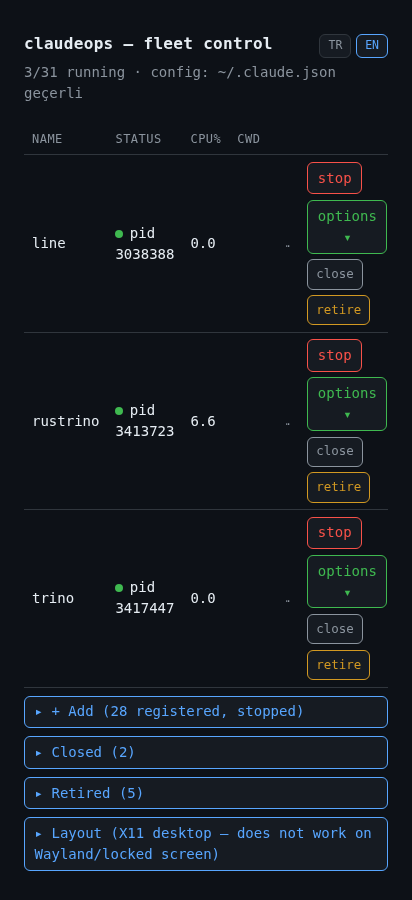
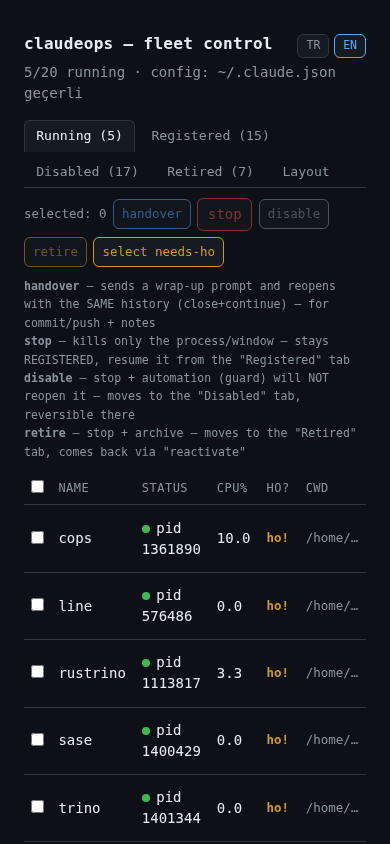
docs(readme): panel bölümü yeni TAB+checkbox UI'a göre yeniden yazıldı (EN+TR) + güncel ekran görüntüleri
Claude-Session: https://claude.ai/code/session_01U2KW6gG7GKg7q6ygQCARbi

diff --git a/py/README_TR.md b/py/README_TR.md
@@ -32,26 +32,39 @@ En kolay kullanım yolu; her şey tarayıcıdan:
 
 ![claudeops web paneli](../docs/web-panel.png)
 
-- **Ana sayfa** — sadece o an **çalışan** session'lar (gürültüsüz; hiçbir şey otomatik açılmaz).
-- **+ Ekle** — kayıtlı-ama-kapalı projeleri listeler; birini seçip **devam ettir** / **sıfırla (--new)** /
-  **ayrı yeni chat aç** (otomatik tarih-isimli, model/permission-mode/effort seçenekli) ile başlatırsınız.
-  Aynı panelin altında **yeni proje kaydet** formu (isim + klasör + model) — elle dosya düzenlemeden
-  roster'a ekler.
-- **Kapalı / Emekli** — geçici durdurulmuş / tamamen bırakılmış projeler; "tekrar işe al"la geri gelir.
-  Aktif bir projeyi **kapat**mak (geçici) ya da **emekli et**mek (kalıcı) mümkün.
-- **Handover** — çalışan bir session'a wrap-up mesajı gönderir (dokümanları güncelle, commit+push et),
-  aynı geçmişle (`--resume`) + bu mesaj ilk mesaj olarak yeniden başlatır. Panel o an hangi dildeyse
-  mesaj da o dilde gider, model de o proje için roster'da tanımlı model (session'ın o an interaktif
-  olarak `/model` ile geçmiş olabileceği model değil).
+- **Sekmeler** — **Çalışanlar / Kayıtlı / Devre dışı / Emekli / Layout** (aktif sekme sayfa
+  yenilense de hatırlanır). Hiçbir şey otomatik açılmaz.
+- **Çalışanlar** — tüm canlı session'lar, her satırda **checkbox**, tablonun üstünde **toplu işlem
+  butonları**: *handover* / *durdur* / *devre dışı bırak* / *emekli et* seçili satırlara sırayla
+  uygulanır — onay diyaloğu isimleri listeler, ilerleme ve hatalar satır satır raporlanır. Butonların
+  altındaki kısa açıklama (legend) her işlemin ne yaptığını söyler. **ho? kolonu** session'ın
+  *handover'a ihtiyacı var mı* gösterir (repo kirli / untracked dosya / baseline'dan beri commit /
+  wrap-up yok), **needs-ho seç** butonu hepsini tek tıkla seçer.
+- **durdur vs devre dışı vs emekli** — *durdur* sadece process/pencereyi kapatır (proje kayıtlı kalır —
+  Kayıtlı sekmesinden devam ettirilir); *devre dışı bırak* ek olarak otomasyonun (guard) yeniden
+  açmasını engeller (Devre dışı sekmesine taşınır, geri alınabilir); *emekli et* arşive kaldırır
+  (Emekli sekmesi, "tekrar işe al" ile döner).
+- **Kayıtlı** — kayıtlı-ama-durmuş projeler; **devam ettir** / **sıfırla (--new)** / **ayrı yeni chat
+  aç** (otomatik tarih-isimli, model/permission-mode/effort seçenekli) ile başlatırsınız. **Yeni proje
+  kaydet** formu (isim + klasör + model) bu sekmenin altında — elle dosya düzenlemeden roster'a ekler.
+- **Devre dışı / Emekli** — geçici durdurulmuş / tamamen bırakılmış projeler; "tekrar işe al"la geri gelir.
+- **Handover** — seçili çalışan session'lara wrap-up mesajı gönderir (dokümanları güncelle, commit+push
+  et), her birini aynı geçmişle (`--resume`) + bu mesaj ilk mesaj olarak yeniden başlatır. Panel o an
+  hangi dildeyse mesaj da o dilde gider, model de o proje için roster'da tanımlı model (session'ın o an
+  interaktif olarak `/model` ile geçmiş olabileceği model değil). Kodda gömülü bir hariç-tutma listesi
+  YOK — ne seçtiyseniz o çalışır; tek yerleşik koruma, bir session'ın kendisini yöneten CLI'ı asla
+  öldürememesi.
 - **Roster dışındaki session'lar da görünür** — claudeops'un AÇMADIĞI ama çalışan her şey (ör. bir
-  proje klasöründe elle açtığınız çıplak `claude`) "kayıtsız" etiketiyle listede belirir, kısıtlı
-  aksiyon setiyle: durdur / handover / **devral** (seçtiğiniz isimle `--remote-control` ekleyip kaydet —
-  bu pencereyi kapatıp aynı geçmişle yenisini açar, çünkü claudeops zaten bu pencereyi kendisi açmamıştı).
-- **Layout** — pencereleri masaüstlerine dağıtır (`wmctrl`+`xdotool`, X11 only). Kilitli ekranda veya
-  Wayland'da bozuk çalıştığı bilindiği için **otomatik pre-flight kontrol** var — kilitliyse reddeder.
-  Eksik bağımlılık varsa (Ubuntu/Debian: `sudo apt install -y wmctrl xdotool`) uyarır, kurmaz (sudo gerektirir).
-  Kilitli ekran gerektiren TEK işlem bu — başlat/durdur/handover/devral/yeni-chat kilitli ekranda da
-  sorunsuz çalışır (telefondan panele bağlanırken masaüstün kilitli olması sorun değil).
+  proje klasöründe elle açtığınız çıplak `claude`) "kayıtsız" etiketiyle listede belirir, **devral**
+  aksiyonuyla (seçtiğiniz isimle `--remote-control` ekleyip kaydet — bu pencereyi kapatıp aynı geçmişle
+  yenisini açar, çünkü claudeops zaten bu pencereyi kendisi açmamıştı). Durdur/handover checkbox'larla
+  diğer satırlar gibi çalışır.
+- **Layout** — kendi sekmesinde; pencereleri masaüstlerine dağıtır (`wmctrl`+`xdotool`, X11 only).
+  Kilitli ekranda veya Wayland'da bozuk çalıştığı bilindiği için **otomatik pre-flight kontrol** var —
+  kilitliyse reddeder. Eksik bağımlılık varsa (Ubuntu/Debian: `sudo apt install -y wmctrl xdotool`)
+  uyarır, kurmaz (sudo gerektirir). Kilitli ekran gerektiren TEK işlem bu — başlat/durdur/handover/
+  devral/yeni-chat kilitli ekranda da sorunsuz çalışır (telefondan panele bağlanırken masaüstün kilitli
+  olması sorun değil).
 - **TR/EN** — tarayıcı diline göre otomatik seçilir (`navigator.language`), sağ üstteki butonlarla elle
   değiştirilip kalıcı hale getirilebilir (localStorage).
 - **Token korumalı** (`~/.claude/claudeops/web.token`, ilk çalıştırmada rastgele üretilir) — sayfa da

diff --git a/py/README.md b/py/README.md
@@ -32,28 +32,39 @@ The easiest way to use this; everything from the browser:
 
 ![claudeops web panel](../docs/web-panel.png)
 
-- **Main page** — only **running** sessions (no noise; nothing starts automatically).
-- **+ Add** — lists registered-but-stopped projects; pick one and start it with **resume** /
-  **reset (--new)** / **start a separate new chat** (auto-dated name, with model/permission-mode/effort
-  options). The same panel has a **register new project** form (name + folder + model) at the bottom —
-  adds to the roster without editing files by hand.
-- **Closed / Retired** — temporarily stopped / fully abandoned projects; come back with "reactivate".
-  An active project can be **closed** (temporary) or **retired** (permanent).
-- **Handover** — on a running session, sends it a wrap-up prompt (update its docs, commit, push),
-  restarting it with `--resume` (same history) plus that message as the first turn. Uses the message in
-  whichever language the panel is currently set to, and whichever model is set for that project in the
-  roster (not necessarily whatever model the live session happened to be switched to interactively).
+- **Tabs** — **Running / Registered / Disabled / Retired / Layout** (the active tab persists across
+  reloads). Nothing ever starts automatically.
+- **Running** — every live session, one **checkbox** per row, and **bulk action buttons above the
+  table**: *handover* / *stop* / *disable* / *retire* run on the selected rows one by one, with a
+  confirm dialog (listing the names) and per-name progress + error reporting. A short legend under the
+  buttons explains each verb. A **ho? column** shows whether a session *needs a handover* (dirty repo /
+  untracked files / commits since baseline / no wrap-up yet), and **select needs-ho** picks all of
+  those in one click.
+- **stop vs disable vs retire** — *stop* kills only the process/window (the project stays registered —
+  resume it from the Registered tab); *disable* also keeps automation (guard) from reopening it (moves
+  to the Disabled tab, reversible); *retire* archives it (Retired tab, comes back via "reactivate").
+- **Registered** — registered-but-stopped projects; start one with **resume** / **reset (--new)** /
+  **start a separate new chat** (auto-dated name, with model/permission-mode/effort options). The
+  **register new project** form (name + folder + model) lives at the bottom of this tab — adds to the
+  roster without editing files by hand.
+- **Disabled / Retired** — temporarily stopped / fully abandoned projects; come back with "reactivate".
+- **Handover** — sends the selected running sessions a wrap-up prompt (update their docs, commit, push),
+  restarting each with `--resume` (same history) plus that message as the first turn. Uses the message
+  in whichever language the panel is currently set to, and whichever model is set for that project in
+  the roster (not necessarily whatever model the live session happened to be switched to interactively).
+  There is no hardcoded exclude list — what you select is what runs; the only built-in protection is
+  that a session can never kill the CLI it itself is being driven from.
 - **Sessions outside the roster show up too** — anything running that claudeops didn't open (e.g. a
-  plain `claude` you started by hand in a project folder) appears tagged "unregistered", with a reduced
-  action set: stop / handover / **adopt** (attach `--remote-control` under a name of your choice and
-  register it — closes that window and reopens a new one with the same history, since claudeops didn't
-  own it to begin with).
-- **Layout** — arranges windows across desktops (`wmctrl`+`xdotool`, X11 only). Known to misbehave on a
-  locked screen or under Wayland, so there's an **automatic pre-flight check** — it refuses if the
-  screen is locked. Warns (doesn't install, since that needs sudo) if a dependency is missing
-  (Ubuntu/Debian: `sudo apt install -y wmctrl xdotool`). This is the *only* action that needs an
-  unlocked screen — start/stop/handover/adopt/new-chat all work fine on a locked screen too (handy if
-  you're driving the panel from your phone while your desktop is locked).
+  plain `claude` you started by hand in a project folder) appears tagged "unregistered", with an
+  **adopt** action (attach `--remote-control` under a name of your choice and register it — closes that
+  window and reopens a new one with the same history, since claudeops didn't own it to begin with).
+  Stop/handover work on them through the checkboxes like any other row.
+- **Layout** — its own tab; arranges windows across desktops (`wmctrl`+`xdotool`, X11 only). Known to
+  misbehave on a locked screen or under Wayland, so there's an **automatic pre-flight check** — it
+  refuses if the screen is locked. Warns (doesn't install, since that needs sudo) if a dependency is
+  missing (Ubuntu/Debian: `sudo apt install -y wmctrl xdotool`). This is the *only* action that needs
+  an unlocked screen — start/stop/handover/adopt/new-chat all work fine on a locked screen too (handy
+  if you're driving the panel from your phone while your desktop is locked).
 - **TR/EN** — auto-selected from the browser's language (`navigator.language`), can be switched manually
   with the buttons in the top corner and stays persisted (localStorage).
 - **Token protected** (`~/.claude/claudeops/web.token`, randomly generated on first run) — both the page
